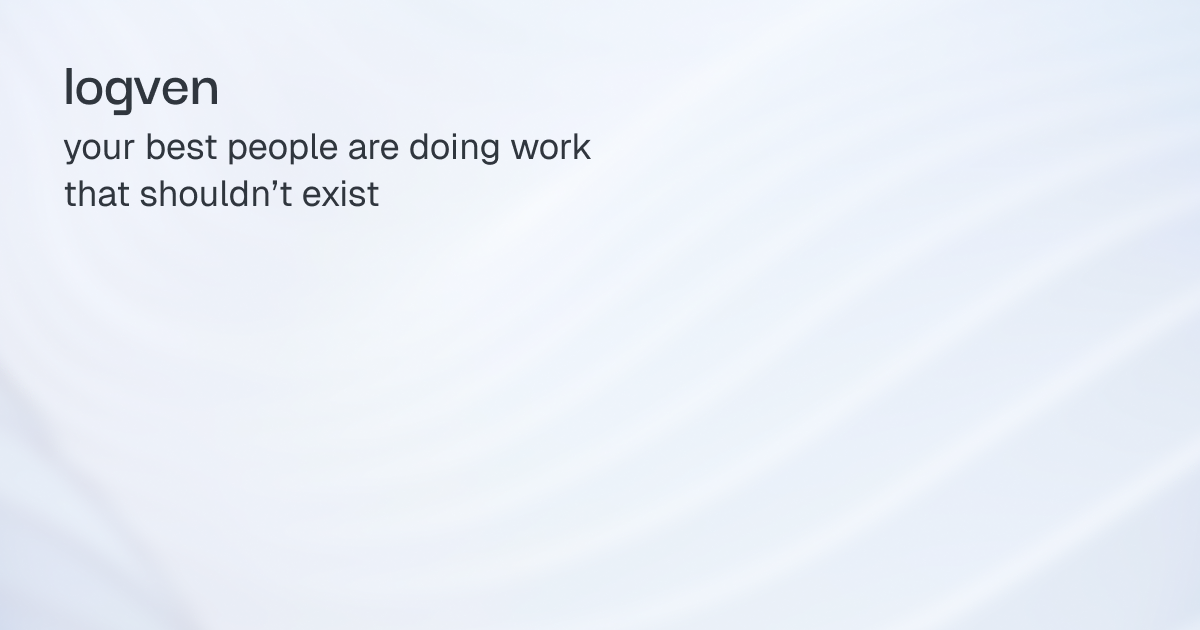
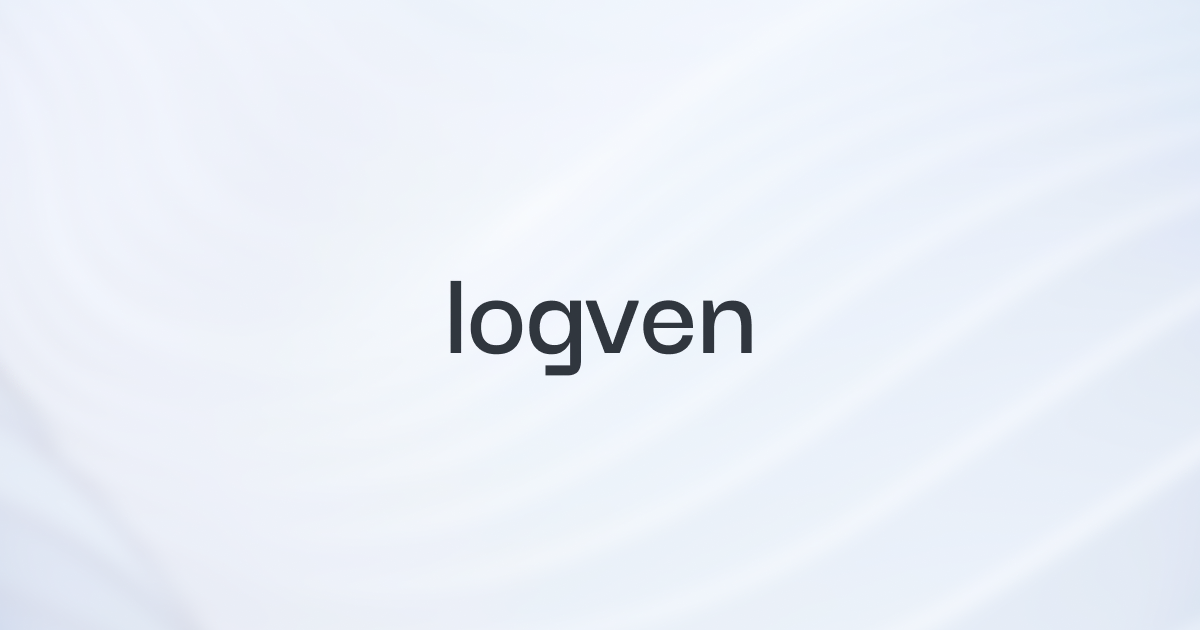
Update social preview image metadata

Changed region(s): [[0.0617, 0.2111, 0.4933, 0.3317], [0.37, 0.4524, 0.6475, 0.6032], [0.0308, 0.1206, 0.185, 0.181]]

diff --git a/templates/base.html b/templates/base.html
@@ -13,10 +13,10 @@
     <meta property="og:image" content="{{ get_url(path='images/home/social-preview.png') }}">
     <meta property="og:image:width" content="1200">
     <meta property="og:image:height" content="630">
-    <meta property="og:image:alt" content="Logven — your best people are doing work that shouldn’t exist">
+    <meta property="og:image:alt" content="Logven">
     <meta name="twitter:card" content="summary_large_image">
     <meta name="twitter:image" content="{{ get_url(path='images/home/social-preview.png') }}">
-    <meta name="twitter:image:alt" content="Logven — your best people are doing work that shouldn’t exist">
+    <meta name="twitter:image:alt" content="Logven">
     <link rel="apple-touch-icon" sizes="180x180" href="{{ get_url(path='apple-touch-icon.png') }}">
     <link rel="icon" type="image/png" sizes="32x32" href="{{ get_url(path='favicon-32x32.png') }}">
     <link rel="icon" type="image/png" sizes="16x16" href="{{ get_url(path='favicon-16x16.png') }}">
